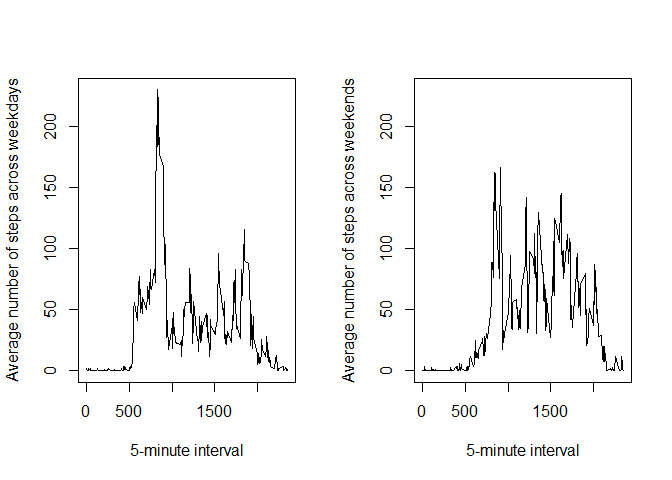
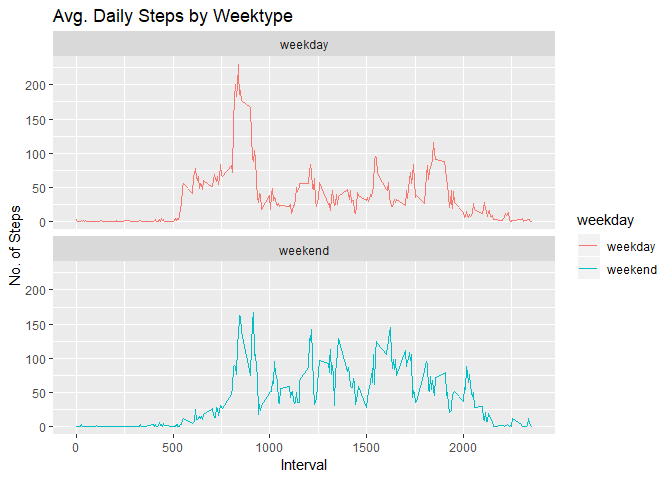
Last plot updated

diff --git a/PA1_template.html b/PA1_template.html
@@ -482,12 +482,14 @@ dfActivityWithFilledSteps$weekday &lt;- as.factor(ifelse(weekdays(as.Date(dfActi
 ## Make a panel plot containing a time series plot of the 5-minute interval (x-axis) 
 ## and the average number of steps taken, averaged across all weekday days or weekend days (y-axis).
 dfAverageActivityPerTypeOfDay &lt;- aggregate(steps ~ weekday+interval, dfActivityWithFilledSteps, mean)
-dfAverageActivityPerWeekday &lt;- dfAverageActivityPerTypeOfDay[dfAverageActivityPerTypeOfDay$weekday == &quot;weekday&quot;,]
-dfAverageActivityPerWeekend &lt;- dfAverageActivityPerTypeOfDay[dfAverageActivityPerTypeOfDay$weekday == &quot;weekend&quot;,]
-par(mfrow=c(1,2))
-with(dfAverageActivityPerWeekday,plot(x=interval, y=steps, type=&quot;l&quot;, xlab=&quot;5-minute interval&quot;, ylab=&quot;Average number of steps across weekdays&quot;, ylim=c(0, 230)))
-with(dfAverageActivityPerWeekend,plot(x=interval, y=steps, type=&quot;l&quot;, xlab=&quot;5-minute interval&quot;, ylab=&quot;Average number of steps across weekends&quot;, ylim=c(0, 230)))</code></pre>
[1 lines of base64/hex data omitted]
+library(ggplot2)</code></pre>
+<pre><code>## Registered S3 methods overwritten by &#39;ggplot2&#39;:
+##   method         from 
+##   [.quosures     rlang
+##   c.quosures     rlang
+##   print.quosures rlang</code></pre>
+<pre class="r"><code>ggplot(dfAverageActivityPerTypeOfDay , aes(x = interval , y = steps, color=weekday)) + geom_line() + labs(title = &quot;Avg. Daily Steps by Weektype&quot;, x = &quot;Interval&quot;, y = &quot;No. of Steps&quot;) + facet_wrap(~ weekday , ncol = 1, nrow=2)</code></pre>
[1 lines of base64/hex data omitted]
 <p>The plots show that <strong>there are differences in activity patterns between weekdays and weekends</strong>. As a matter of a fact, <strong>during the weekdays, there is a peak of activity between 8am and 10am</strong> which could be due to the fact that people go to their office or shools. <strong>During the weekends, the activity is lower between 8am and 10 am but is higher for the rest of the day</strong>. This can be explained by the fact that during weekends, people have their recreational activities (sports, shopping, museum, …) and therefore, after 10am, walk more than during the weekdays.</p>
 </div>
 

diff --git a/PA1_template.md b/PA1_template.md
@@ -187,11 +187,19 @@ dfActivityWithFilledSteps$weekday <- as.factor(ifelse(weekdays(as.Date(dfActivit
 ## Make a panel plot containing a time series plot of the 5-minute interval (x-axis) 
 ## and the average number of steps taken, averaged across all weekday days or weekend days (y-axis).
 dfAverageActivityPerTypeOfDay <- aggregate(steps ~ weekday+interval, dfActivityWithFilledSteps, mean)
-dfAverageActivityPerWeekday <- dfAverageActivityPerTypeOfDay[dfAverageActivityPerTypeOfDay$weekday == "weekday",]
-dfAverageActivityPerWeekend <- dfAverageActivityPerTypeOfDay[dfAverageActivityPerTypeOfDay$weekday == "weekend",]
-par(mfrow=c(1,2))
-with(dfAverageActivityPerWeekday,plot(x=interval, y=steps, type="l", xlab="5-minute interval", ylab="Average number of steps across weekdays", ylim=c(0, 230)))
-with(dfAverageActivityPerWeekend,plot(x=interval, y=steps, type="l", xlab="5-minute interval", ylab="Average number of steps across weekends", ylim=c(0, 230)))
+library(ggplot2)
+```
+
+```
+## Registered S3 methods overwritten by 'ggplot2':
+##   method         from 
+##   [.quosures     rlang
+##   c.quosures     rlang
+##   print.quosures rlang
+```
+
+```r
+ggplot(dfAverageActivityPerTypeOfDay , aes(x = interval , y = steps, color=weekday)) + geom_line() + labs(title = "Avg. Daily Steps by Weektype", x = "Interval", y = "No. of Steps") + facet_wrap(~ weekday , ncol = 1, nrow=2)
 ```
 
 ![](PA1_template_files/figure-html/unnamed-chunk-10-1.png)<!-- -->
